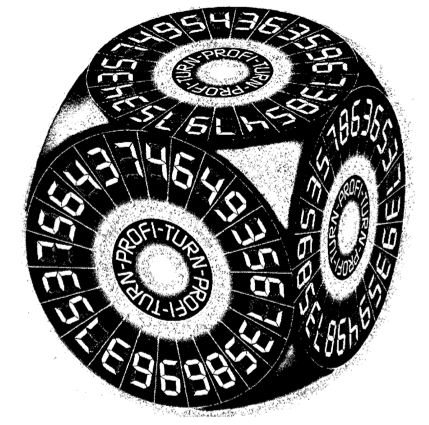
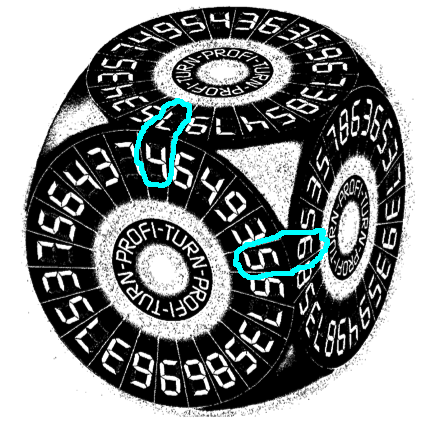
pontos de contacto assinalados na figura

Changed region(s): [[0.5455, 0.52, 0.7879, 0.6729], [0.303, 0.2141, 0.4545, 0.4588]]

diff --git a/pdf_template/sections.tex b/pdf_template/sections.tex
@@ -42,7 +42,7 @@ No entanto, para garantir a unicidade de solução, em valores demasiado elevado
 \begin{figure}[H]
 \begin{center}
 \includegraphics[scale=0.4]{turn12.png}
-\caption{Problema original}
+\caption{Problema original, com os pontos de contacto visíveis assinalados}
 \label{fig:1}
 \end{center}
 \end{figure}
